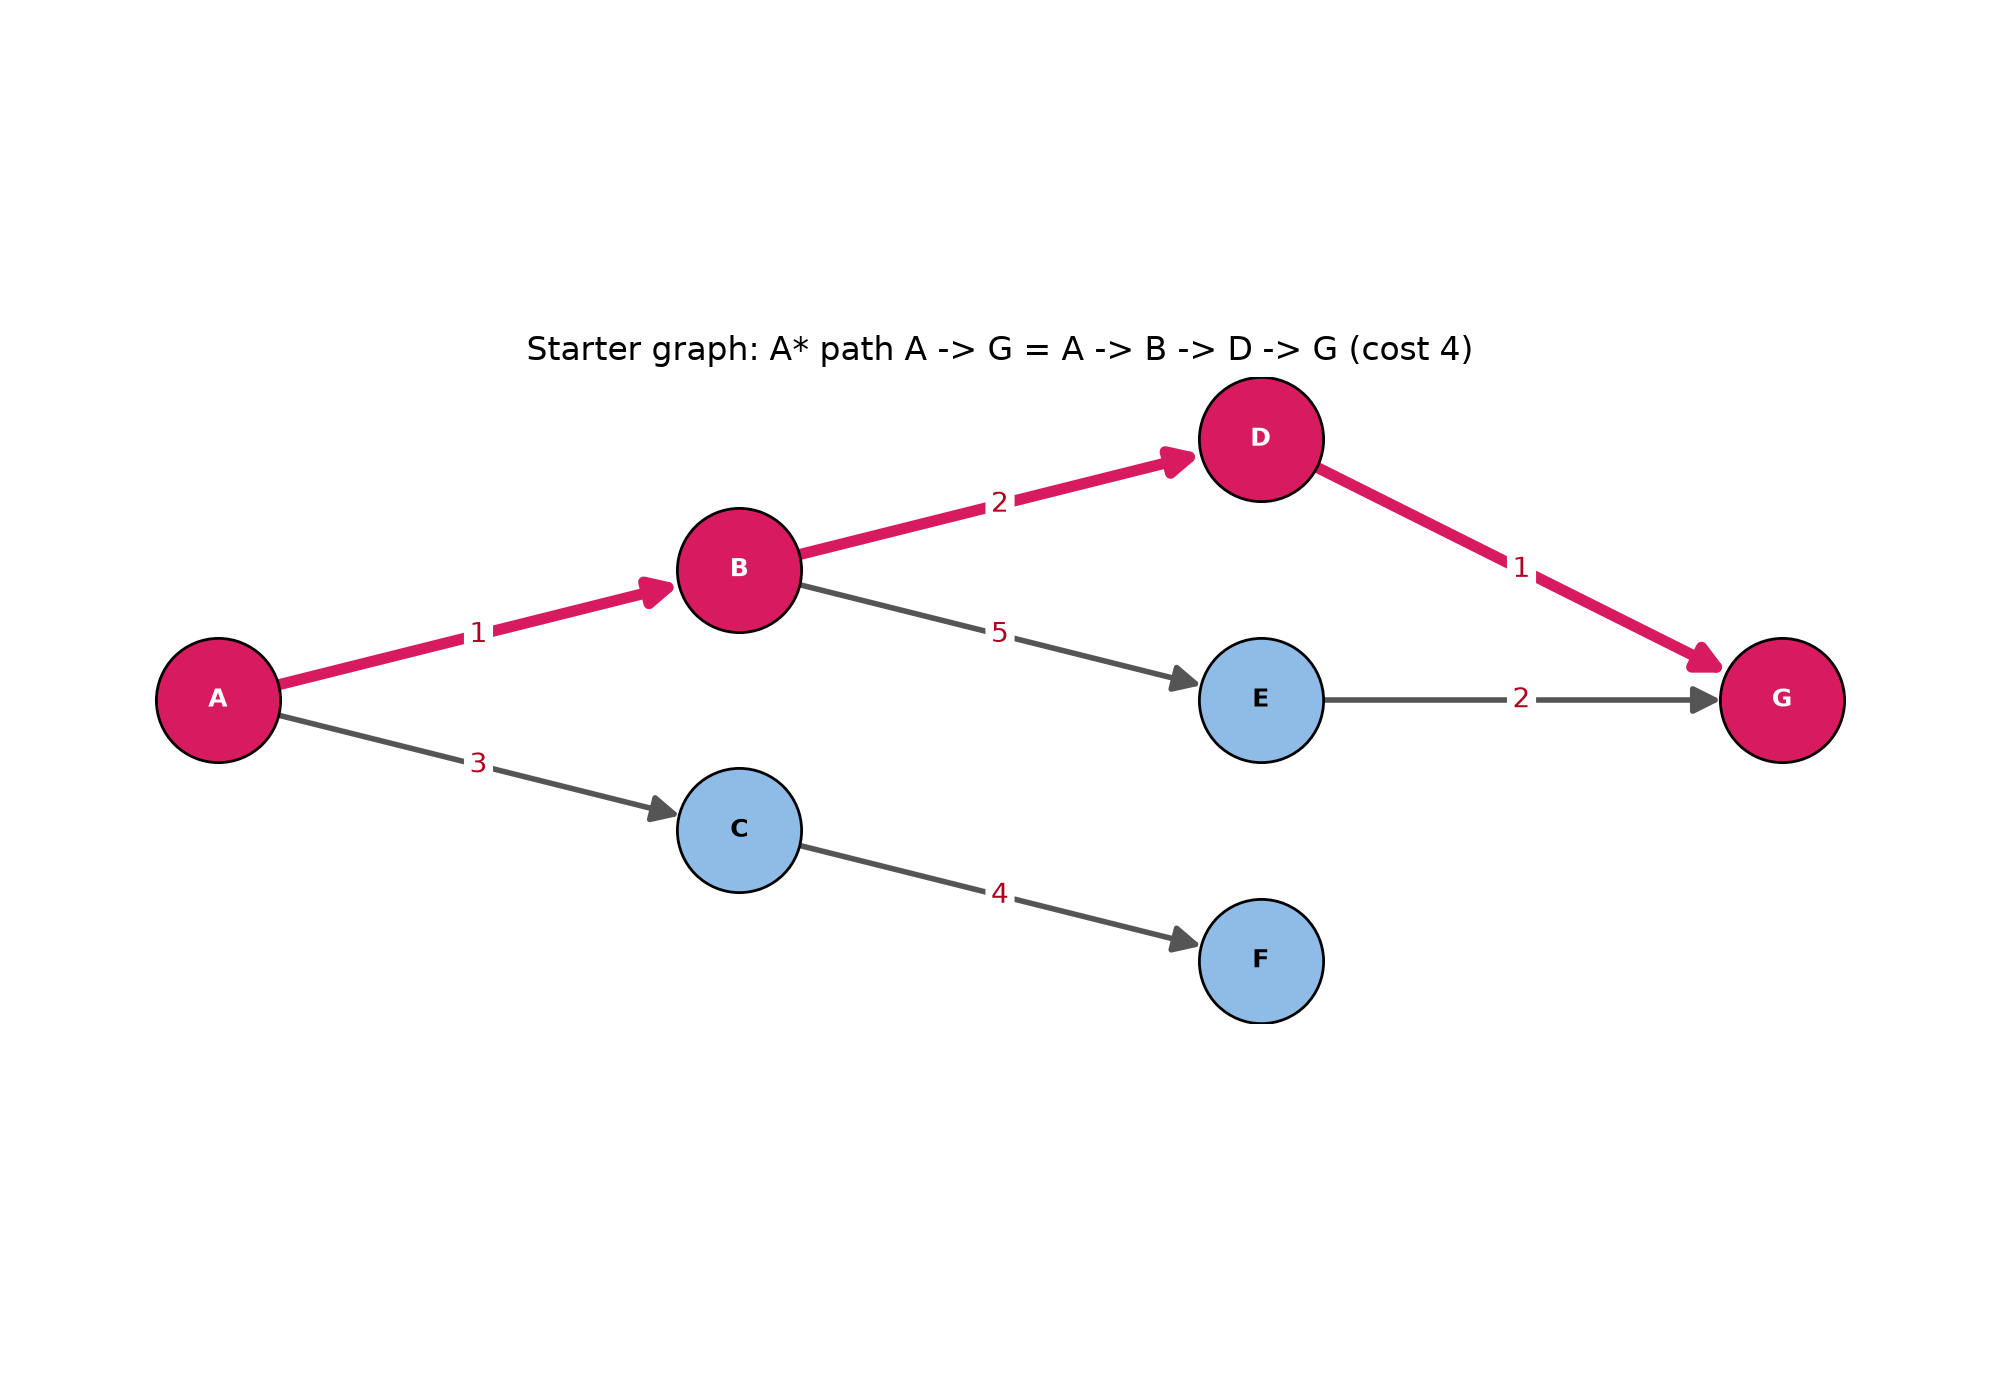
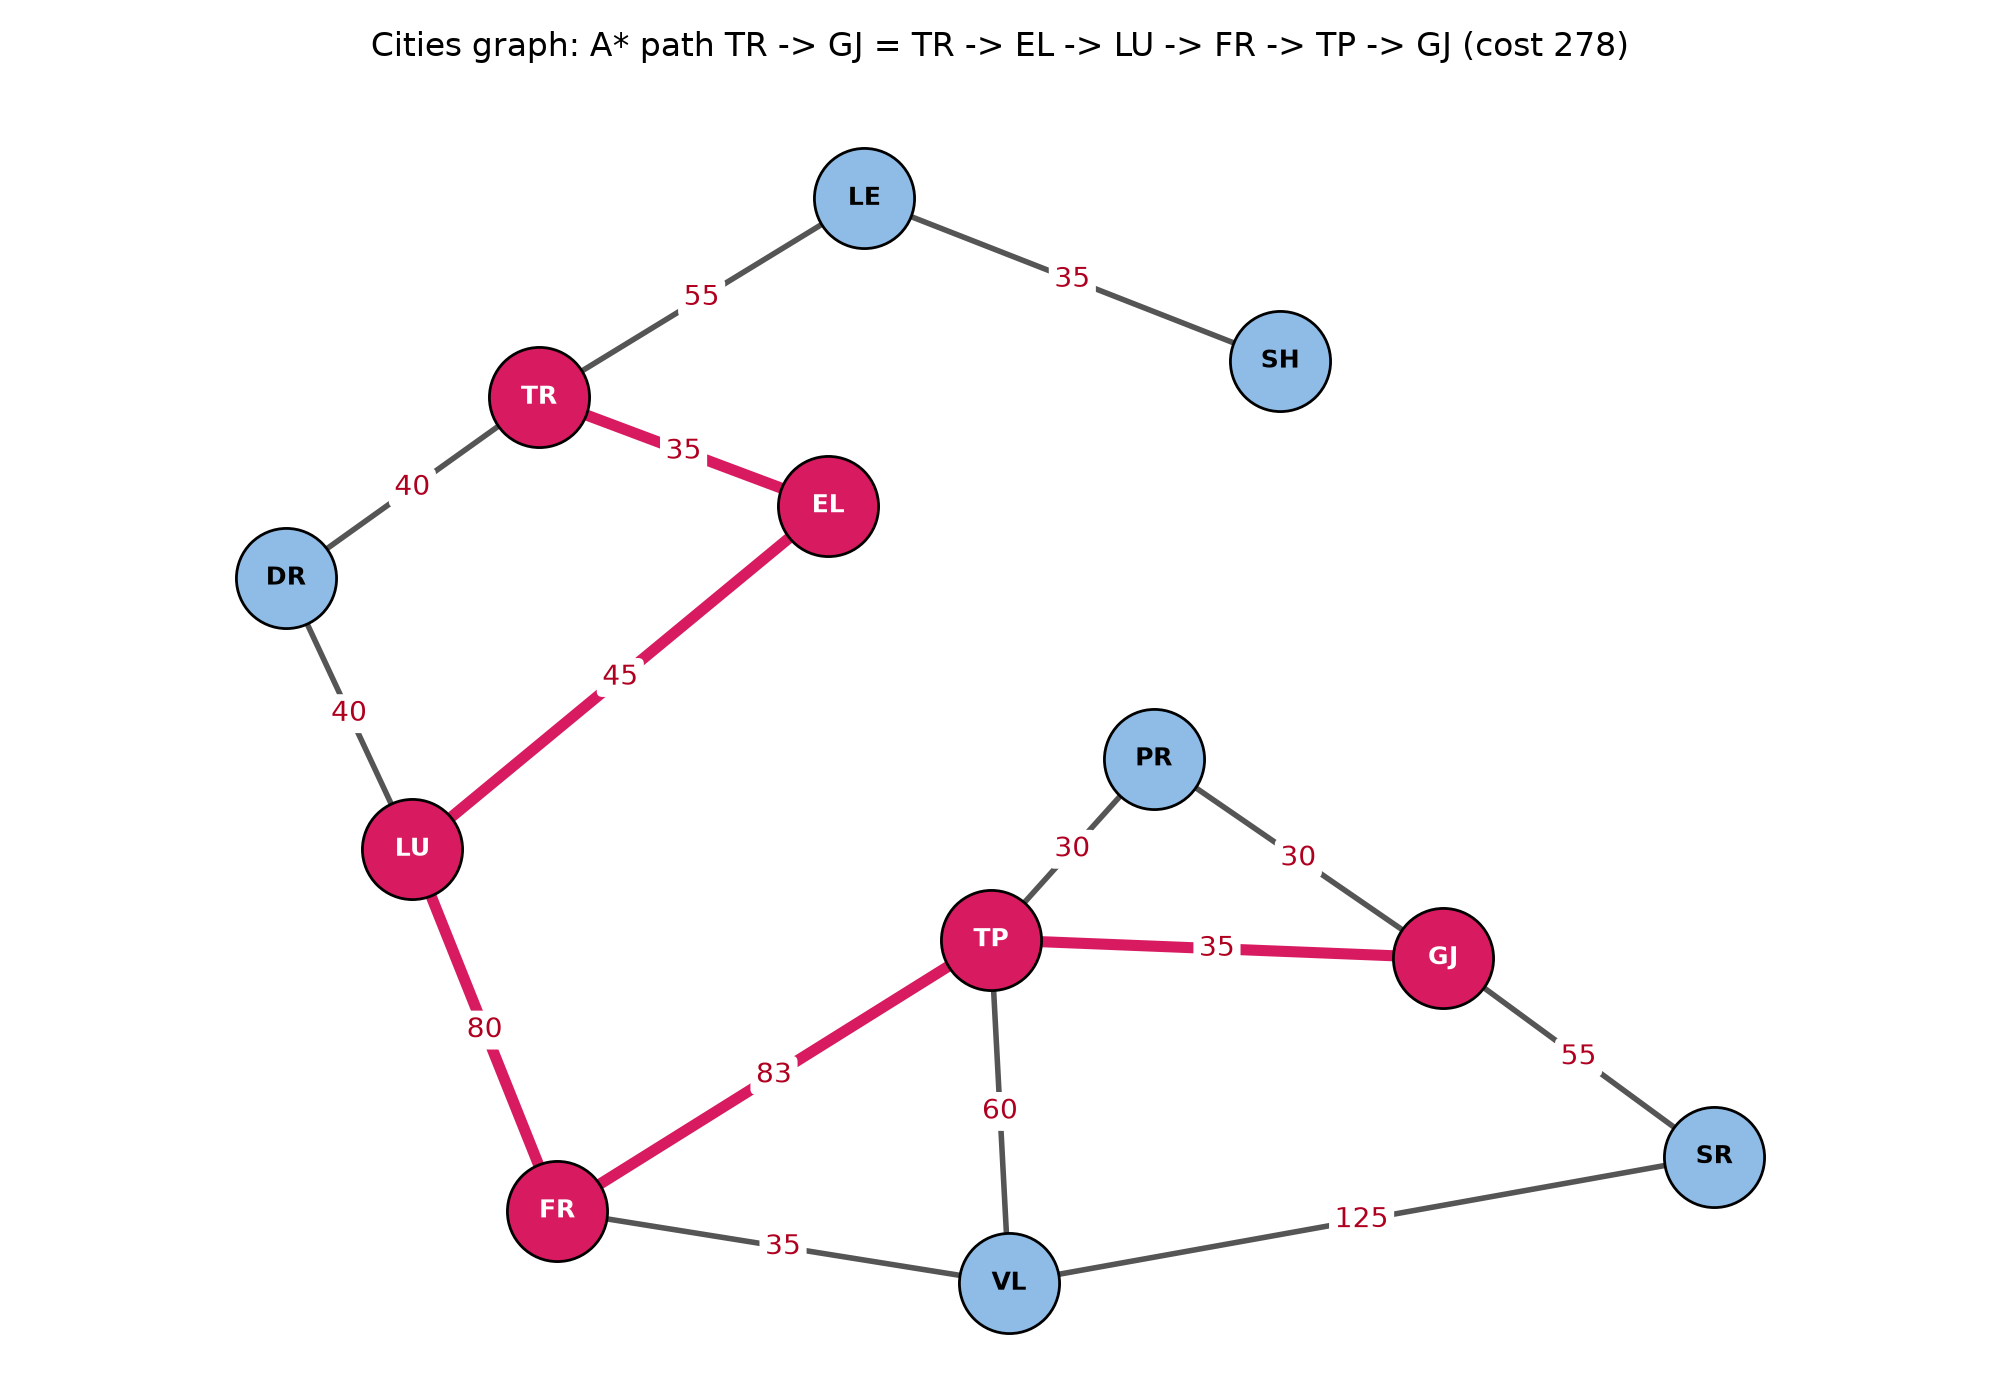
Organize bilingual course index and update seminar materials (#12)
* Organize the repo as a bilingual course index

Rename the project to CIS525 Artificial Intelligence / Inteligjenca
Artificiale. The root README (Albanian, with README.en.md in English)
becomes a course index; each seminar gets its own README pair. Seminar 2
details move to seminar2/README*, now including best_quality_route.
Seminar 3 gets the provided A* starter code and a placeholder README.
AGENTS.md is brought up to date (Textual TUI, ruff, CI, seminar 3).

* Draw the seminar 3 graph and document how A* works (#9)

Moves graph_data to module level so seminar3/draw.py can draw it to
seminar3/images/starter_graph.png with the A* path highlighted. Adds
seminar3/graph.py to convert the seminar 2 graphs to the A* shape, with
tests run in CI, and explains A* in both seminar 3 READMEs.

* Use the cities state space in the seminar 3 A* starter (#11)

Replaces the A-G example graph with the 12 cities from the State Space
slide (two-way roads, start TR, goal GJ). The FR-TP road has no cost on
the slide, so it uses the 83 km Fier-Tepelenë road distance. draw.py
places the nodes as on the slide so labels no longer overlap.

Claude-Session: https://claude.ai/code/session_01TNy7Myby6XnjogkBR9z4t2

diff --git a/seminar3/draw.py b/seminar3/draw.py
@@ -1,4 +1,4 @@
-"""Seminar 3: draw the A-G example graph from seminar_3_initial_code.py.
+"""Seminar 3: draw the cities graph from seminar_3_initial_code.py.
 
 Writes seminar3/images/starter_graph.png with the A* path highlighted.
 """
@@ -13,7 +13,7 @@ matplotlib.use("Agg")  # draw to files only, no window needed
 import matplotlib.pyplot as plt
 
 from seminar3.graph import path_cost
-from seminar3.seminar_3_initial_code import a_star_search, graph_data
+from seminar3.seminar_3_initial_code import GOAL, START, a_star_search, graph_data
 
 IMAGES = Path(__file__).resolve().parent / "images"  # seminar3/images/
 
@@ -21,6 +21,13 @@ NODE = "#8fbce6"  # nodes off the path
 PATH_NODE = "#d81b60"  # nodes on the A* path
 EDGE = "#555555"  # edges off the path
 LABEL = "#b00020"  # cost labels
+
+# Node positions copied from the State Space slide (pixels / 100, y flipped so up is up)
+CITY_POS = {
+    "LE": (5.6, -2.4), "SH": (7.9, -3.3), "TR": (3.8, -3.5), "EL": (5.4, -4.1),
+    "DR": (2.4, -4.5), "LU": (3.1, -6.0), "PR": (7.2, -5.5), "TP": (6.3, -6.5),
+    "GJ": (8.8, -6.6), "SR": (10.3, -7.7), "FR": (3.9, -8.0), "VL": (6.4, -8.4),
+}
 
 
 def layered_positions(graph, start):
@@ -65,7 +72,7 @@ def draw(graph, pos, path, title, out, unit=""):
                 "", xy=(x2, y2), xytext=(x1, y1),
                 arrowprops={
                     "arrowstyle": "-" if undirected else "-|>",  # arrow only for one-way edges
-                    "color": color, "lw": width, "shrinkA": 22, "shrinkB": 22, "mutation_scale": 20,
+                    "color": color, "lw": width, "shrinkA": 18, "shrinkB": 18, "mutation_scale": 20,
                 },
                 zorder=1,
             )
@@ -76,13 +83,13 @@ def draw(graph, pos, path, title, out, unit=""):
             )
 
     for node, (x, y) in pos.items():  # nodes on top of the edges
-        ax.scatter(x, y, s=2000, zorder=2, color=PATH_NODE if node in path else NODE, edgecolor="black")
+        ax.scatter(x, y, s=1300, zorder=2, clip_on=False, color=PATH_NODE if node in path else NODE, edgecolor="black")
         ax.text(x, y, str(node), ha="center", va="center", fontsize=9, fontweight="bold",
                 color="white" if node in path else "black", zorder=4)
 
-    ax.set_title(title)
+    ax.set_title(title, pad=20)
     ax.set_aspect("equal")
-    ax.margins(0.12)
+    ax.margins(0.08)
     ax.axis("off")
     fig.tight_layout()
     out.parent.mkdir(parents=True, exist_ok=True)  # create seminar3/images/ if missing
@@ -91,10 +98,10 @@ def draw(graph, pos, path, title, out, unit=""):
 
 
 def main():
-    path = a_star_search(graph_data, "A", "G")  # same search the starter's __main__ runs
+    path = a_star_search(graph_data, START, GOAL)  # same search the starter's __main__ runs
     out = IMAGES / "starter_graph.png"
-    draw(graph_data, layered_positions(graph_data, "A"), path,
-         f"Starter graph: A* path A -> G = {' -> '.join(path)} (cost {path_cost(graph_data, path)})", out)
+    draw(graph_data, CITY_POS, path,
+         f"Cities graph: A* path {START} -> {GOAL} = {' -> '.join(path)} (cost {path_cost(graph_data, path)})", out)
     print(f"saved {out}")
 
 

diff --git a/seminar2/tui/actions.py b/seminar2/tui/actions.py
@@ -35,7 +35,7 @@ from seminar2.text import fold
 ROOT = Path(__file__).resolve().parent.parent.parent
 
 G_MCP, G_LIVE, G_ANIM = "MCP tools", "Live viewer", "Animations"
-G_DATA, G_DEV = "Figures & data", "Dev & tools"
+G_DATA, G_S3, G_DEV = "Figures & data", "Seminar 3: A*", "Dev & tools"
 
 # MCP tool parameters that get dataset-aware choices.
 CITY_PARAMS = {"city": "Shkodër", "from_city": "Shkodër", "to_city": "Korçë"}
@@ -749,6 +749,17 @@ def registry():
         Action("maze_check", G_DATA, "Maze check",
                "Print the maze with its validation result (python -m seminar2.maze.maze).", (),
                (lambda v: _module("seminar2.maze.maze", title="maze check"))),
+        Action("s3_starter", G_S3, "A* starter",
+               "Run the provided A* starter on the cities state space and print the path from TR to GJ "
+               "(python -m seminar3.seminar_3_initial_code).", (),
+               (lambda v: _module("seminar3.seminar_3_initial_code", title="seminar 3 A* starter"))),
+        Action("s3_draw", G_S3, "A* graph draw",
+               "Write seminar3/images/starter_graph.png: the cities graph with the A* path highlighted.", (),
+               (lambda v: _module("seminar3.draw", title="seminar 3 draw"))),
+        Action("s3_graph", G_S3, "A* on Seminar 2 graphs",
+               "Convert the Seminar 2 cities and maze graphs to the A* shape and run A* on them "
+               "(python -m seminar3.graph).", (),
+               (lambda v: _module("seminar3.graph", title="seminar 3 graphs"))),
         Action("run_tests", G_DEV, "Run tests",
                "Run the unittest suite: python -m unittest discover -s seminar2/tests -t .", (),
                (lambda v: _module("unittest", "discover", "-s", "seminar2/tests", "-t", ".", title="run tests"))),

diff --git a/seminar3/seminar_3_initial_code.py b/seminar3/seminar_3_initial_code.py
@@ -73,22 +73,32 @@ def a_star_search(graph, start, end):
     return None  # Path not found
 
 
-# Define a simple graph (module level so seminar3/draw.py can draw it)
+# State space of the cities (module level so seminar3/draw.py can draw it).
+# Roads are two-way, so every edge is stored in both directions.
+# The FR-TP road has no cost in the slide; 83 is the Fier-Tepelenë road distance in km.
 graph_data = {
-    'A': [('B', 1), ('C', 3)],
-    'B': [('D', 2), ('E', 5)],
-    'C': [('F', 4)],
-    'D': [('G', 1)],
-    'E': [('G', 2)],
-    'F': [],
-    'G': []
+    'LE': [('TR', 55), ('SH', 35)],
+    'SH': [('LE', 35)],
+    'TR': [('LE', 55), ('DR', 40), ('EL', 35)],
+    'DR': [('TR', 40), ('LU', 40)],
+    'EL': [('TR', 35), ('LU', 45)],
+    'LU': [('DR', 40), ('EL', 45), ('FR', 80)],
+    'FR': [('LU', 80), ('VL', 35), ('TP', 83)],
+    'VL': [('FR', 35), ('TP', 60), ('SR', 125)],
+    'TP': [('PR', 30), ('GJ', 35), ('VL', 60), ('FR', 83)],
+    'PR': [('TP', 30), ('GJ', 30)],
+    'GJ': [('PR', 30), ('TP', 35), ('SR', 55)],
+    'SR': [('GJ', 55), ('VL', 125)],
 }
+
+START = 'TR'  # black node in the slide
+GOAL = 'GJ'  # red node in the slide
 
 
 # Example Usage:
 if __name__ == "__main__":
-    start_node_name = 'A'
-    end_node_name = 'G'
+    start_node_name = START # the starting node
+    end_node_name = GOAL
 
     path_found = a_star_search(graph_data, start_node_name, end_node_name)
 

diff --git a/seminar2/tests/test_tui.py b/seminar2/tests/test_tui.py
@@ -36,7 +36,7 @@ class RegistryTests(unittest.TestCase):
         keys = {a.key for a in registry()}
         self.assertTrue({"live_start", "live_stop", "live_open", "cities_animate", "maze_animate",
                          "cities_draw", "maze_draw", "cities_check", "maze_check", "run_tests",
-                         "hermes_check", "inspector", "demo_viewer"} <= keys)
+                         "hermes_check", "inspector", "demo_viewer", "s3_starter", "s3_draw", "s3_graph"} <= keys)
         self.assertEqual(len(keys), len(registry()))
 
     def test_tool_forms_follow_signatures(self):
@@ -136,6 +136,9 @@ class SpawnTests(unittest.TestCase):
             "maze_draw": ["-m", "seminar2.maze.draw"],
             "cities_check": ["-m", "seminar2.cities.graph"],
             "maze_check": ["-m", "seminar2.maze.maze"],
+            "s3_starter": ["-m", "seminar3.seminar_3_initial_code"],
+            "s3_draw": ["-m", "seminar3.draw"],
+            "s3_graph": ["-m", "seminar3.graph"],
             "run_tests": ["-m", "unittest", "discover", "-s", "seminar2/tests", "-t", "."],
         }
         for key, args in expect.items():

diff --git a/seminar2/cities/graph.py b/seminar2/cities/graph.py
@@ -77,10 +77,10 @@ def load_roads(path=DEFAULT_PATH):
         reader = csv.DictReader(f)
         if "quality" not in (reader.fieldnames or []):
             raise ValueError(f"{path}: missing column(s) ['quality']")
-        rows = list(reader)
+        rows = [(reader.line_num, row) for row in reader]   # csv skips blank lines, so enumerate would drift
 
     roads = {}
-    for line, row in enumerate(rows, start=2):
+    for line, row in rows:
         if _is_blank(row):
             continue
         a, b = row["city_a"].strip(), row["city_b"].strip()

diff --git a/seminar2/tests/test_quality.py b/seminar2/tests/test_quality.py
@@ -41,6 +41,10 @@ class LoaderTests(unittest.TestCase):
     def test_bad_quality_names_file_and_line(self):
         self.check_error(HEADER + "A,B,10,good\nB,C,5,bumpy\n", "line 3", "bumpy")
 
+    def test_bad_quality_line_counts_blank_lines(self):
+        # csv skips the blank line, but the error must still name the physical line 4
+        self.check_error(HEADER + "A,B,10,good\n\nB,C,5,bumpy\n", "line 4", "bumpy")
+
     def test_empty_quality_is_an_error(self):
         self.check_error(HEADER + "A,B,10,\n", "line 2")
 

diff --git a/seminar3/README.en.md b/seminar3/README.en.md
@@ -8,7 +8,7 @@
 
 | File | Description |
 |---|---|
-| [`seminar_3_initial_code.py`](seminar_3_initial_code.py) | Provided starter code: `Node`, `a_star_search` and the example graph `graph_data` (A–G) |
+| [`seminar_3_initial_code.py`](seminar_3_initial_code.py) | Provided starter code: `Node`, `a_star_search` and the cities state space `graph_data` (12 cities, start `TR`, goal `GJ`) |
 | [`draw.py`](draw.py) | Draws `graph_data` with the A* path highlighted |
 | [`graph.py`](graph.py) | Converts the Seminar 2 graphs (cities, maze) to the shape `a_star_search` expects |
 | [`tests/`](tests/) | Tests for `graph.py`: same edges as Seminar 2, same results as Dijkstra and BFS |
@@ -16,23 +16,30 @@
 
 ## The graph
 
-`graph_data` is directed and weighted: each node maps to a list of `(neighbour, cost)` pairs.
+`graph_data` is the cities state space from the State Space slide: 12 cities joined by two-way roads, weighted by cost. Each node maps to a list of `(neighbour, cost)` pairs, and every road is stored in both directions. The search starts at `TR` (`START`, the black node on the slide) and ends at `GJ` (`GOAL`, the red node).
 
 ```python
 graph_data = {
-    'A': [('B', 1), ('C', 3)],
-    'B': [('D', 2), ('E', 5)],
-    'C': [('F', 4)],
-    'D': [('G', 1)],
-    'E': [('G', 2)],
-    'F': [],
-    'G': []
+    'LE': [('TR', 55), ('SH', 35)],
+    'SH': [('LE', 35)],
+    'TR': [('LE', 55), ('DR', 40), ('EL', 35)],
+    'DR': [('TR', 40), ('LU', 40)],
+    'EL': [('TR', 35), ('LU', 45)],
+    'LU': [('DR', 40), ('EL', 45), ('FR', 80)],
+    'FR': [('LU', 80), ('VL', 35), ('TP', 83)],
+    'VL': [('FR', 35), ('TP', 60), ('SR', 125)],
+    'TP': [('PR', 30), ('GJ', 35), ('VL', 60), ('FR', 83)],
+    'PR': [('TP', 30), ('GJ', 30)],
+    'GJ': [('PR', 30), ('TP', 35), ('SR', 55)],
+    'SR': [('GJ', 55), ('VL', 125)],
 }
 ```
 
-![Starter graph with the A* path](images/starter_graph.png)
+The slide gives no cost for the `FR`–`TP` road, so it uses 83, the Fier–Tepelenë road distance in km.
 
-Nodes are placed in columns by their distance in edges from A. The A* path is in pink.
+![Cities graph with the A* path](images/starter_graph.png)
+
+Nodes are placed as on the slide. The A* path is in pink.
 
 ## How A* works
 
@@ -52,7 +59,7 @@ Each `Node` keeps three values:
 4. Otherwise, for each neighbour not in the closed list, compute `g`, `h` and `f` and push it onto the open list, unless it is already there with an equal or lower `f`.
 5. Repeat until the open list is empty; then there is no path (`None`).
 
-Result on `graph_data`: **A → B → D → G, cost 4** (1 + 2 + 1). The alternative A → B → E → G costs 8.
+Result on `graph_data`: **TR → EL → LU → FR → TP → GJ, cost 278** (35 + 45 + 80 + 83 + 35). TR → DR → LU → FR → TP → GJ costs the same 278; going through VL instead (LU → FR → VL → TP → GJ) costs 290.
 
 In the starter code `h = 0`, so `f = g` and the search behaves like Dijkstra: correct, but not guided toward the goal. A real heuristic must never overestimate the remaining cost (admissible), or A* can return a longer path.
 
@@ -61,8 +68,10 @@ In the starter code `h = 0`, so `f = g` and the search behaves like Dijkstra: co
 From the repo root:
 
 ```
-uv run python seminar3/seminar_3_initial_code.py           # prints the path from A to G
+uv run python seminar3/seminar_3_initial_code.py           # prints the path from TR to GJ
 uv run python -m seminar3.draw                             # writes images/starter_graph.png
 uv run python -m seminar3.graph                            # A* on the Seminar 2 cities and maze graphs
 uv run python -m unittest discover -s seminar3/tests -t .  # tests
 ```
+
+The first three are also in the terminal UI (`uv run python -m seminar2.tui`), under **Seminar 3: A\***.

diff --git a/AGENTS.md b/AGENTS.md
@@ -5,7 +5,7 @@ Seminar exercises for the AI course (UET), one folder per seminar. Seminar 2 (do
 - **U1 cities**: 8 Albanian cities, weighted undirected graph (km), shortest route by Dijkstra, or the best-quality route (Dijkstra on km x road-quality factor).
 - **U2 maze**: 25 rooms on a 5x5 grid, unweighted undirected graph, fewest-doors path by BFS.
 
-Seminar 3 (in progress): A* search. `seminar_3_initial_code.py` is the provided starter (`Node`, `a_star_search`, module-level `graph_data` A–G, heuristic `h = 0`). `draw.py` writes `seminar3/images/starter_graph.png` (`uv run python -m seminar3.draw`). `graph.py` converts the seminar 2 graphs to the A* shape `{node: [(neighbour, cost)]}`; tests in `seminar3/tests/` (also run in CI).
+Seminar 3 (in progress): A* search. `seminar_3_initial_code.py` is the provided starter (`Node`, `a_star_search`, module-level `graph_data`: the 12-city state space from the slide, two-way roads, `START = 'TR'`, `GOAL = 'GJ'`, heuristic `h = 0`; A* returns TR → EL → LU → FR → TP → GJ, cost 278). `draw.py` writes `seminar3/images/starter_graph.png` (`uv run python -m seminar3.draw`). `graph.py` converts the seminar 2 graphs to the A* shape `{node: [(neighbour, cost)]}`; tests in `seminar3/tests/` (also run in CI).
 
 ## Dev environment
 
